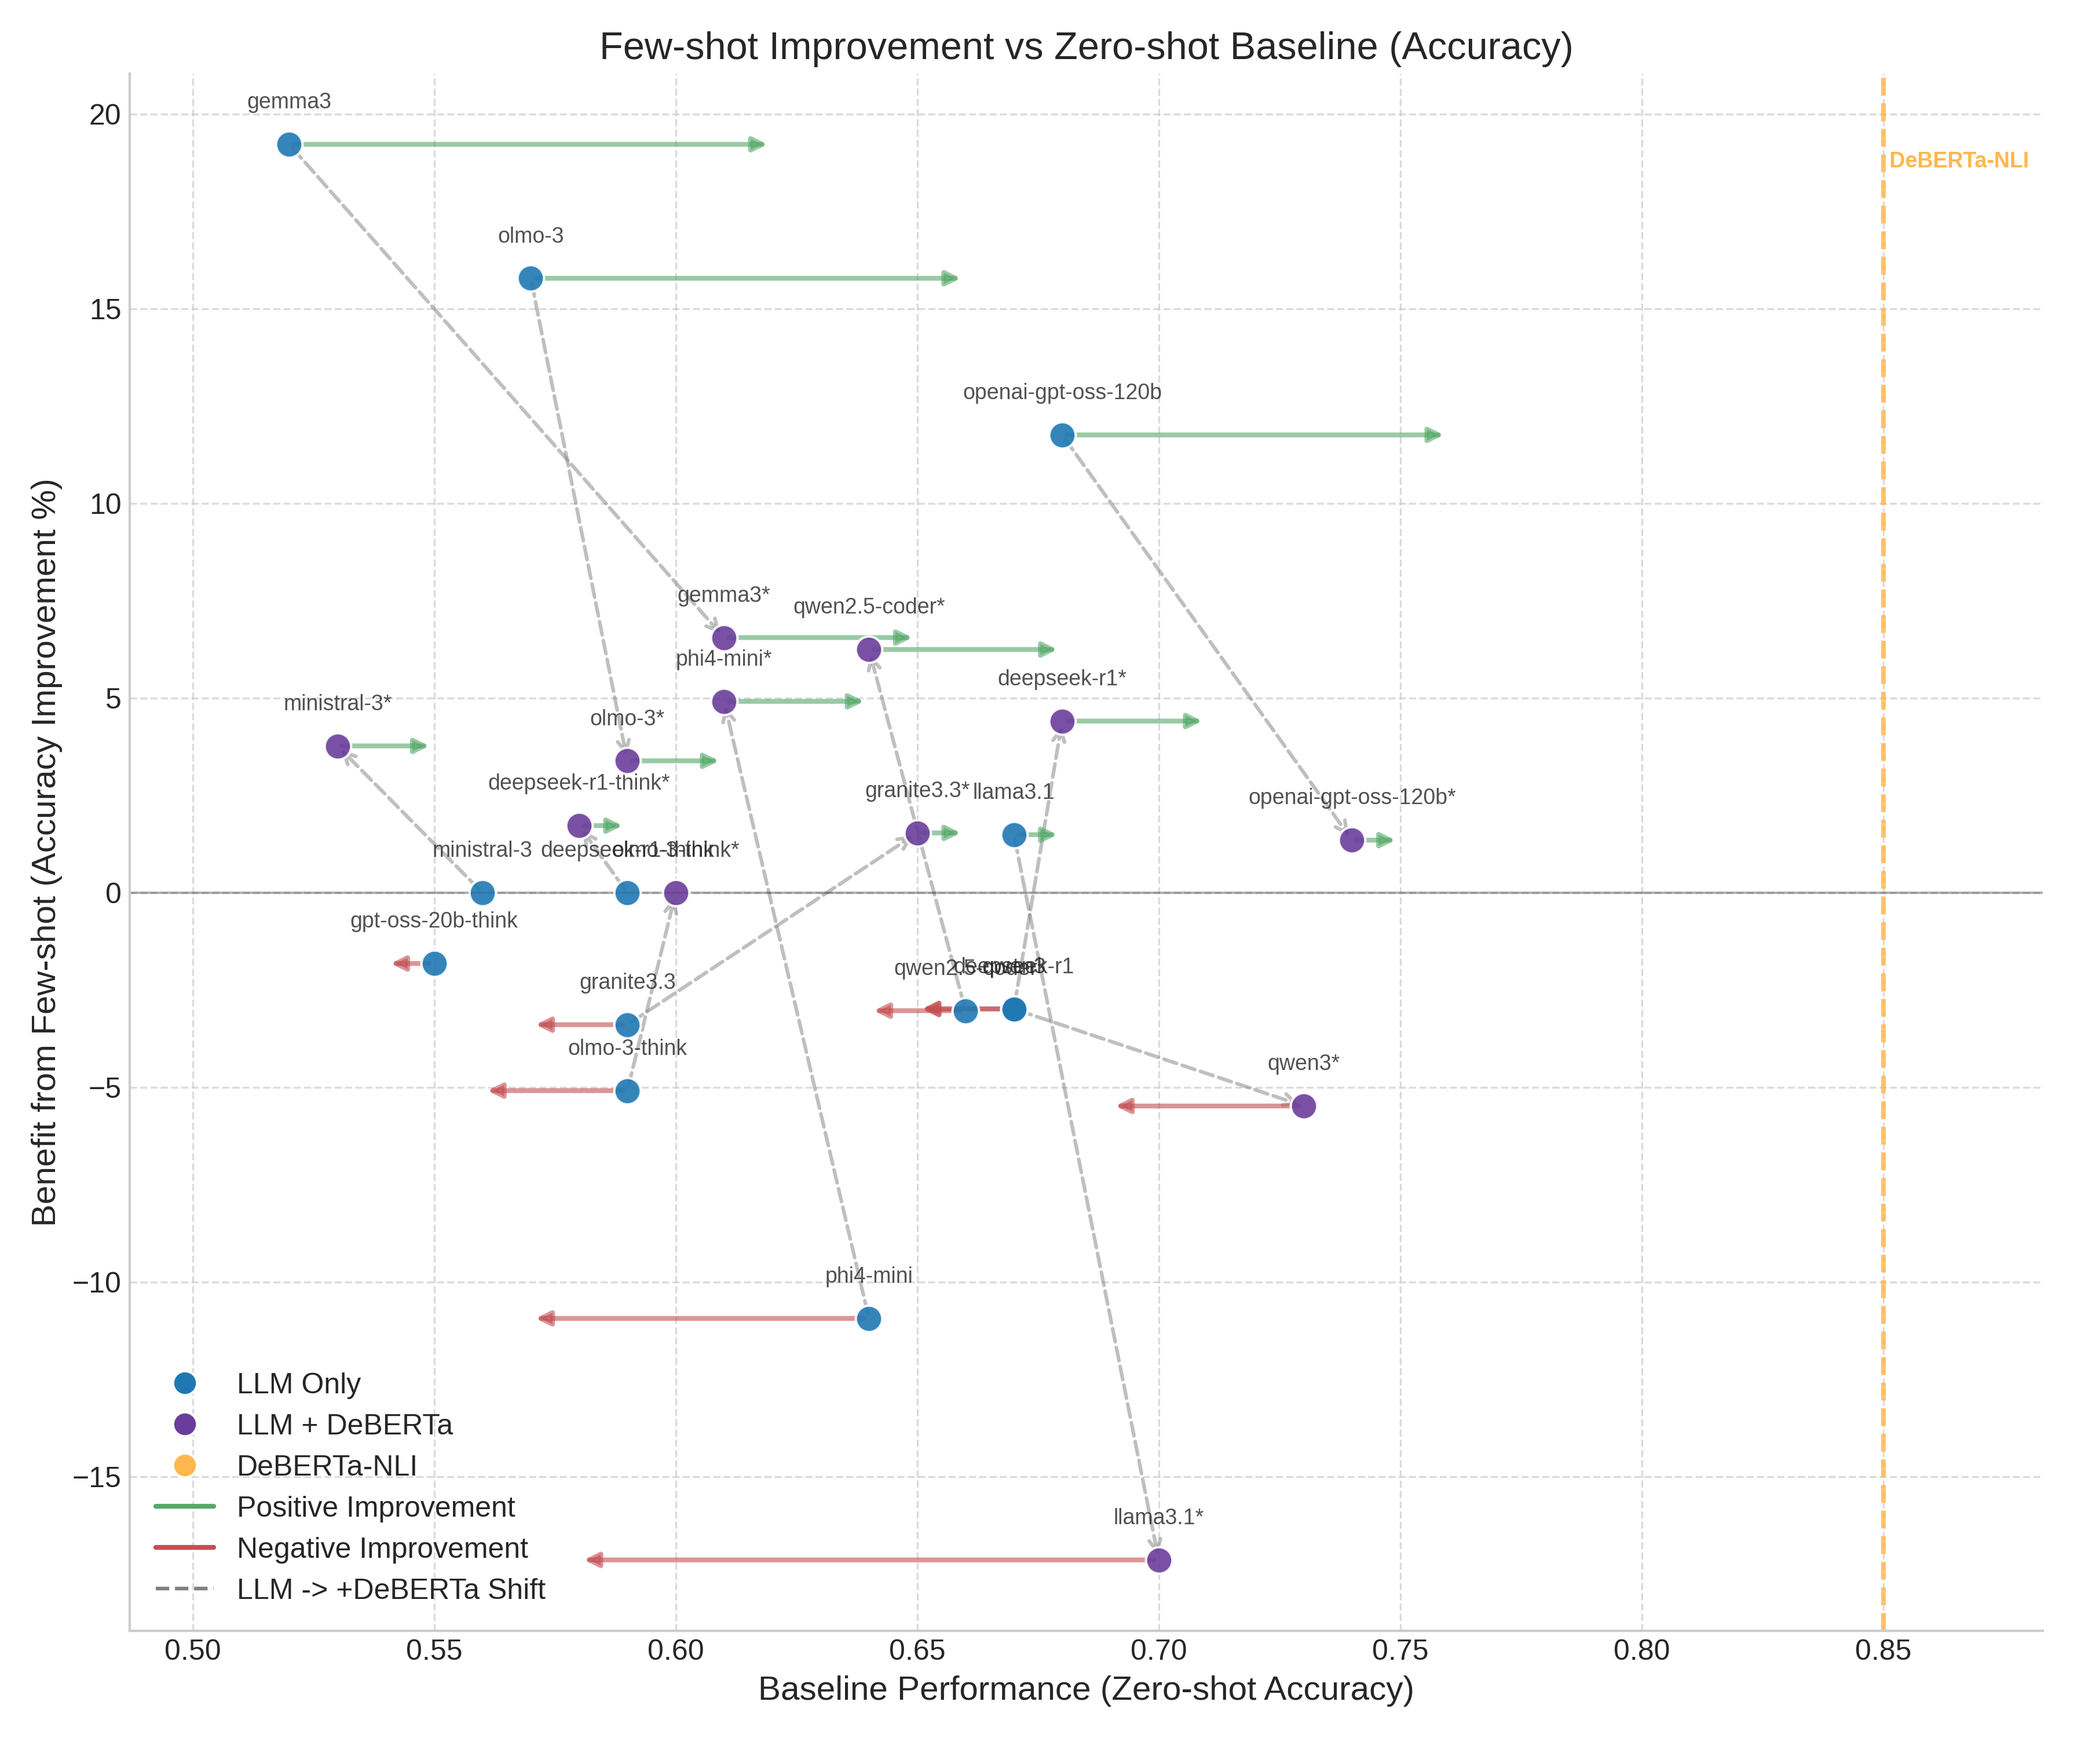
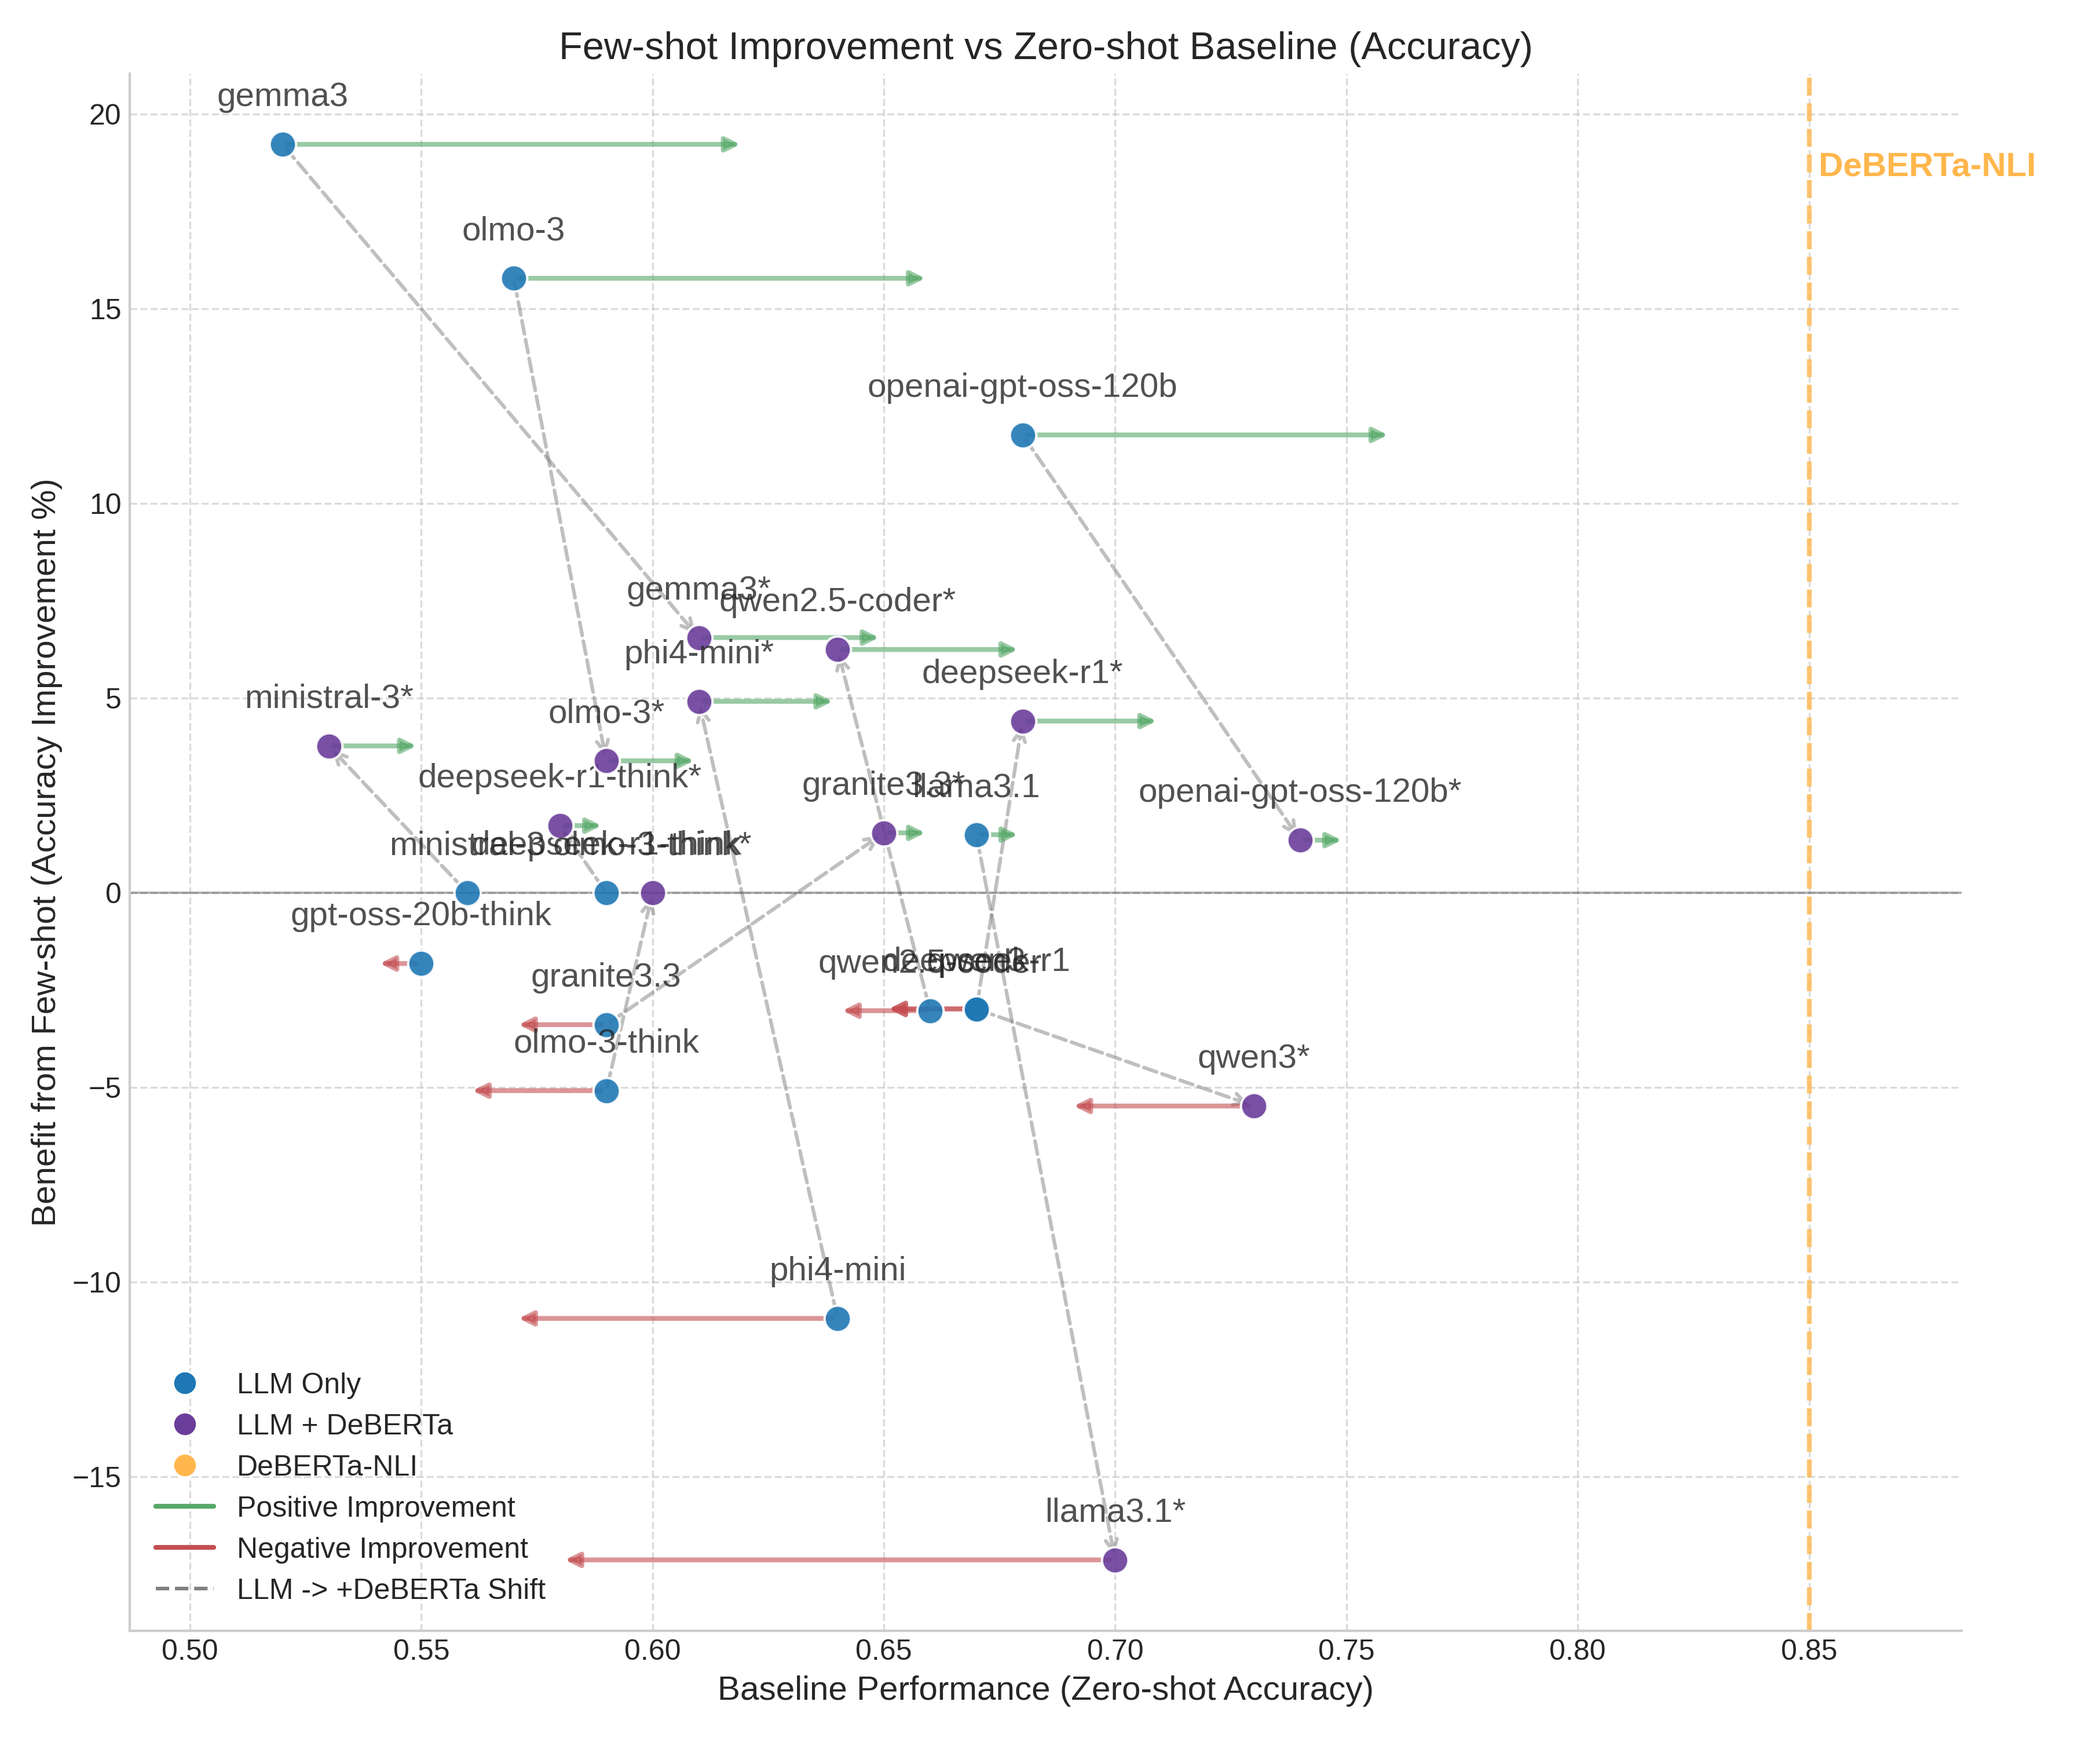
Fix size of the name of the models i naccuracy learning potential plot

diff --git a/scripts/process_and_plot_100.py b/scripts/process_and_plot_100.py
@@ -136,7 +136,7 @@ def plot_learning_potential_first100(df: pd.DataFrame, output_dir: Path):
         label = row['model'].replace('-deberta', '')
         if row['is_enhanced']:
             label += '*'
-        ax.text(row['zero_accuracy'], row['accuracy_impr_pct'] + 0.8, label, fontsize=9, ha='center', va='bottom', alpha=0.8)
+        ax.text(row['zero_accuracy'], row['accuracy_impr_pct'] + 0.8, label, fontsize=14, ha='center', va='bottom', alpha=0.8)
 
     # Connect Standard to Enhanced
     # Group by base_name
@@ -183,7 +183,7 @@ def plot_learning_potential_first100(df: pd.DataFrame, output_dir: Path):
         if pd.notna(deberta_val):
             ax.axvline(deberta_val, color=c_orange, linestyle='--', linewidth=2, alpha=0.8, label=label_text.strip())
             ylim = ax.get_ylim()
-            ax.text(deberta_val, ylim[1] - (ylim[1]-ylim[0])*0.05, label_text, color=c_orange, fontweight='bold', ha='left', va='top', fontsize=9)
+            ax.text(deberta_val, ylim[1] - (ylim[1]-ylim[0])*0.05, label_text, color=c_orange, fontweight='bold', ha='left', va='top', fontsize=14)
     
     # Custom Legend - MOVED TO LEFT for first100 plots
     legend_elements = [
